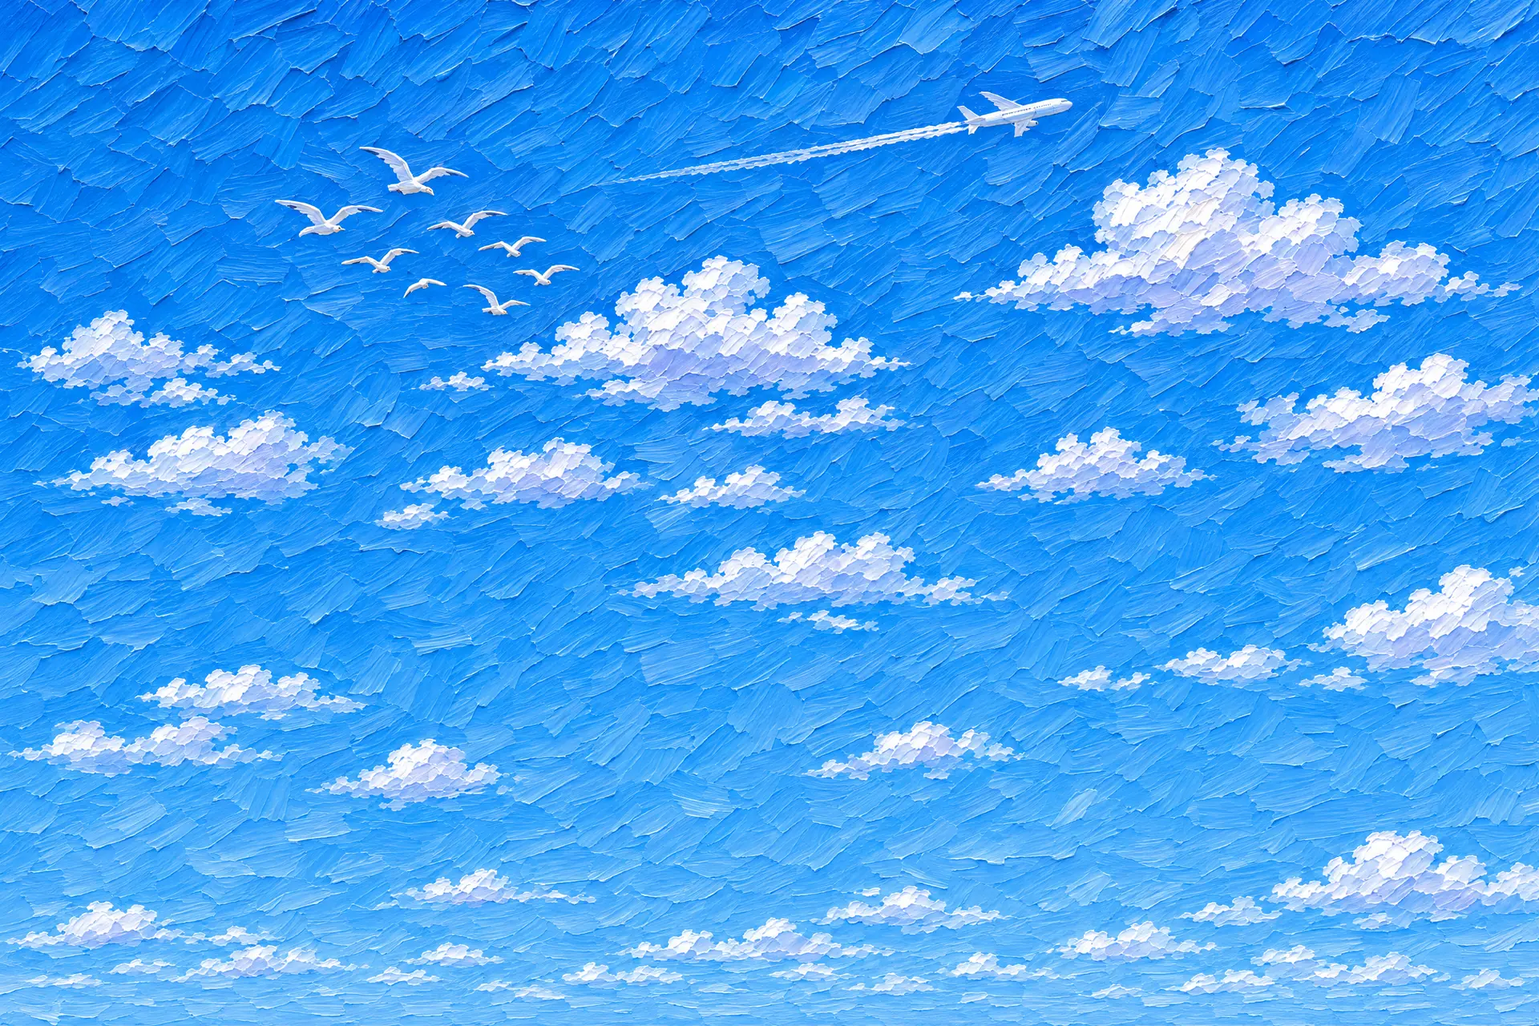
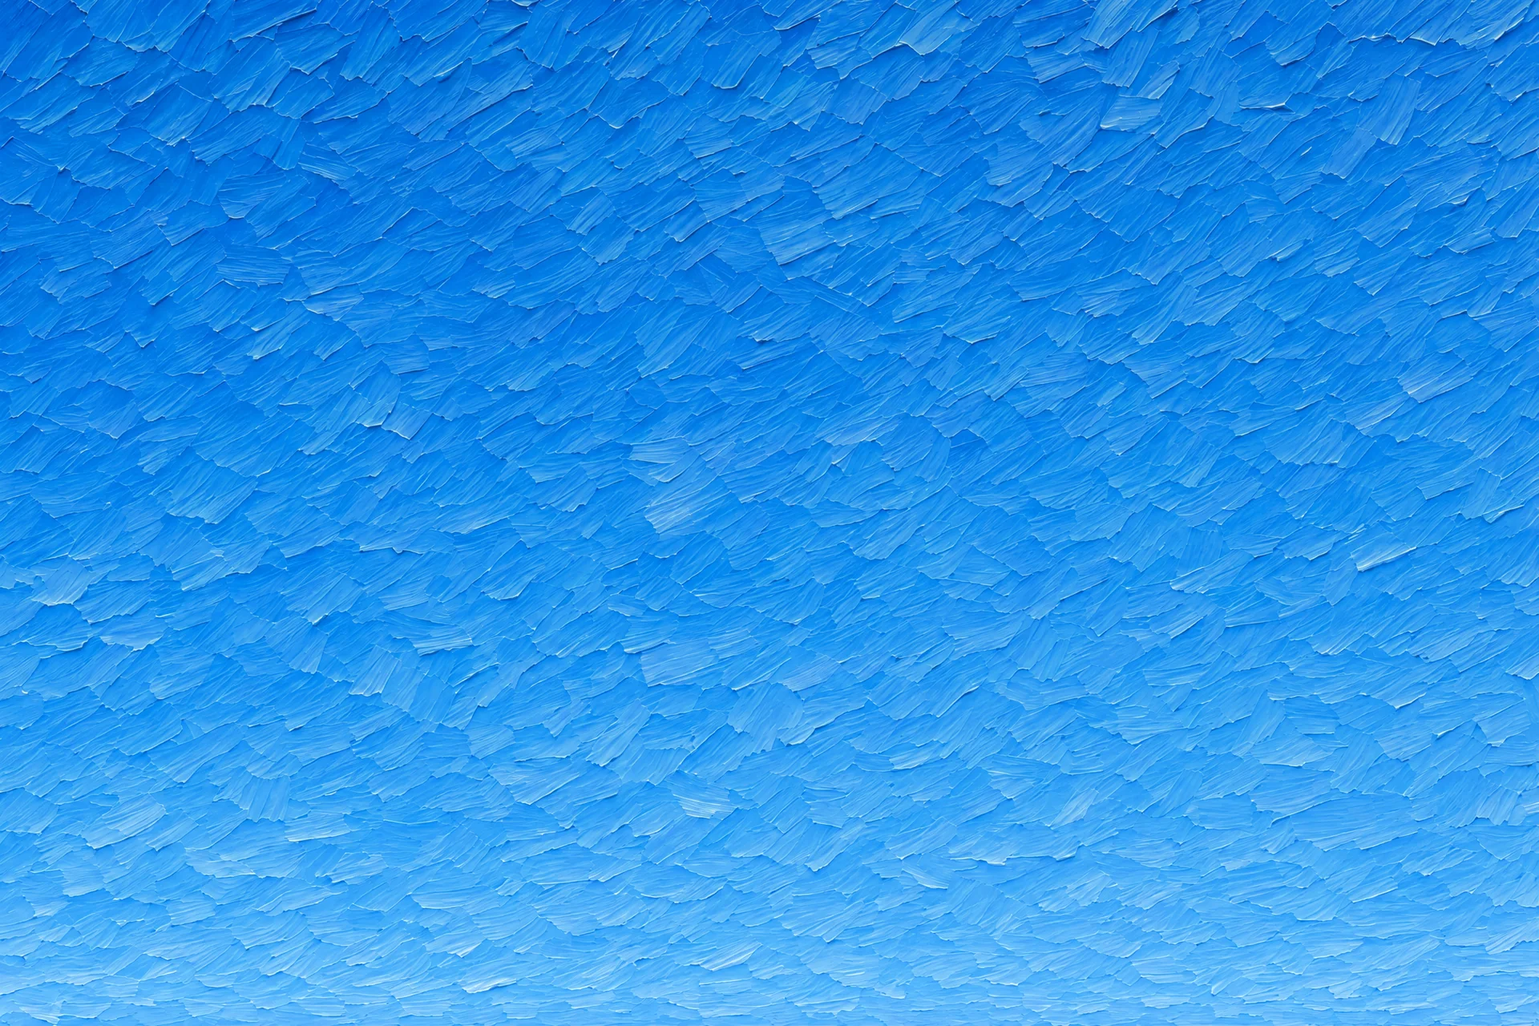
Home, opening: the plane is gone, and the name is painted large across the sky
The sky is repainted plain, its clouds and gulls are a layer of their own, and between them
the footer's signature, in the clouds' white paint, writes itself across the open sky when
the picture has grown. Phones: he stands a little smaller so the name is above his head, and
the crop shows the bus stop. Motion critic: the depth ends at 50%, the facts land on a still
picture, the nearest layers grow most, and all layers share one origin.

diff --git a/v7/hero.css b/v7/hero.css
@@ -100,7 +100,7 @@ html.me-scroll #about .me-facts .me-k{ font-weight: 600; color: #fff; }
     html.me-scroll #about .me-pin > *{ --rest: min(100cqh - var(--t0, 330px) - var(--sb), 130cqw); }
     html.me-scroll #about .me-photo.me-v7{ left: 0; width: 100%; top: calc(var(--t0, 330px) * (1 - var(--g, 0))); height: calc(var(--rest) + (100cqh - var(--rest)) * var(--g, 0)); }
     html.me-scroll #about .me-photo.me-v7 .me-v7-fg{ left: 54%; height: min(92%, 62cqw); }
-    html.me-scroll #about .me-photo.me-v7 .me-v7-bg{ object-position: 50% 58%; }
+    html.me-scroll #about .me-photo.me-v7 .me-v7-bg{ object-position: 46% 58%; }
   }
   /* no pin (reduced motion): the same two columns, still */
   html:not(.me-scroll) #about .me-top{ display: grid; grid-template-columns: 47% minmax(0, 1fr); gap: 4%; align-items: center; }
@@ -139,29 +139,28 @@ html.me-scroll #about .me-facts .me-k{ font-weight: 600; color: #fff; }
 }
 @media (max-width: 899px) and (prefers-reduced-motion: reduce) { nav.nav{ transition: none; } }
 
-/* The painter signs the canvas (owner, 22.11.2026 night: "I asked for my signature here too").
-   The drawing is the footer's own signature, cloned by v7/hero.js, in white paint at the bottom right of the picture.
-   Plain layout (phones, reduced motion): the true corner. Pinned stage: right-aligned on the jacket, just above where the four
-   facts will land; it is written as soon as the picture has grown and stays while it is grown (opacity follows --g from the
-   page's pin script). Owner, 22.11.2026: a dark name on the sky "cannot be seen at all, better as it was": white, on the jacket. Written once, in 1.4 s; never again. */
-#about .me-photo.me-v7 .hsig{ position: absolute; z-index: 2; right: clamp(14px, 4.4%, 24px); bottom: clamp(14px, 3.8%, 24px); width: clamp(112px, 31%, 140px); pointer-events: none; opacity: .94; rotate: -3deg; transform-origin: 0 100%; filter: sepia(.6) drop-shadow(0 0 .5px rgba(255,255,255,.85)) drop-shadow(0 1px 1.5px rgba(6,16,40,.7)); }
-/* plain layout: the corner of the picture can be pale floor or bright jacket, so the corner is shaded a little under the name */
-#about .me-photo.me-v7 .hsig::before{ content: ""; position: absolute; inset: -70% -34% -80% -40%; z-index: -1; background: radial-gradient(closest-side, rgba(8,22,56,.5), rgba(8,22,56,.26) 55%, rgba(8,22,56,0)); }
-html.me-scroll #about .me-photo.me-v7 .hsig::before{ content: none; }
-#about .hsig .hsig-svg{ display: block; width: 100%; height: auto; overflow: visible; }
-#about .hsig.js mask path{ stroke-dasharray: 1; stroke-dashoffset: 1; }
-#about .hsig.js.signed mask path{ animation: hsig-write calc(var(--t) * .476) cubic-bezier(.42,.1,.5,1) calc(var(--d) * .476) forwards; }
+/* The painter signs the sky (owner, 24.11.2026: "delete the plane, and instead the signature is painted huge behind me, across the
+   whole sky, with an effect"). The drawing is the footer's own signature (one source), cloned by v7/hero.js into .me-v7-sig: a layer
+   between the plain sky and its clouds, so the clouds, the city, the trees and he all stand in front of it. Its paint is the clouds' own
+   white with a ridge lit from the upper left (img/me-v7-sky-sig.webp). The layer is the same box as the sky picture and moves with it;
+   inside it the drawing is laid on the picture's own pixels (object-fit: cover done by hand: --opx/--opy follow the pictures'
+   object-position), so the name holds its place in the painting at every window shape.
+   Written once, in 2.3 s, as soon as the picture has grown to fill the stage (plain layout: when the sky is in view); never again. */
+#about .me-photo.me-v7{ --opx: .5; --opy: .58; }
+#about .me-photo.me-v7 .me-v7-sig{ position: absolute; left: 0; top: 0; width: 100%; height: 100%; container-type: size; pointer-events: none; will-change: transform; transform: translate(calc(var(--tx,0) * -2.2%), calc(var(--ty,0) * -2%)) scale(1.09); }
+#about .me-v7-sig svg{ position: absolute; display: block; width: max(100cqw, 150cqh); height: auto; aspect-ratio: 3 / 2; left: calc((100cqw - max(100cqw, 150cqh)) * var(--opx)); top: calc((100cqh - max(100cqw, 150cqh) / 1.5) * var(--opy)); overflow: visible; }
+#about .me-v7-sig.js mask path{ stroke-dasharray: 1; stroke-dashoffset: 1; }
+#about .me-v7-sig.js.signed mask path{ animation: hsig-write calc(var(--t) * .8) cubic-bezier(.42,.1,.5,1) calc(var(--d) * .8) forwards; }
 @keyframes hsig-write{ to{ stroke-dashoffset: 0; } }
-html.me-scroll #about .me-photo.me-v7 .hsig{ right: clamp(26px, 3.2vw, 52px); bottom: calc(clamp(22px, 4vh, 40px) + var(--ch, 90px) + 64px + clamp(30px, 4.6cqh, 44px)); width: clamp(128px, 14cqw, 176px); opacity: clamp(0, calc((var(--g, 0) - .8) * 4.7), .94); }
-@media (prefers-reduced-motion: reduce) { #about .hsig mask path{ stroke-dashoffset: 0 !important; animation: none !important; } }
+@media (prefers-reduced-motion: reduce) { #about .me-v7-sig mask path{ stroke-dashoffset: 0 !important; animation: none !important; } }
+@media (max-width: 860px) { #about .me-photo.me-v7{ --opx: .3; --opy: .5; } }
+@media (min-width: 861px) { html:not(.me-scroll) #about .me-photo.me-v7{ --opx: .64; } html.me-scroll #about .me-photo.me-v7{ --opx: .46; } }
+html.hp-wait #about .me-photo.me-v7 .me-v7-sig{ visibility: hidden; }
 /* The picture is painted in front of the visitor (v7/hero-paint.js). While the pencil is being prepared the frame is bare paper,
    so the finished picture is never seen first; then one canvas of pencil lies over the picture and thins out role by role. */
 html.hp-wait #about .me-photo.me-v7 .me-v7-in img{ visibility: hidden; }
 html.hp-wait #about .me-photo.me-v7{ background: #eeede9 !important; }
 #about .me-photo.me-v7 .me-v7-in .hp-cv{ position: absolute; inset: 0; z-index: 3; display: block; width: 100%; height: 100%; pointer-events: none; transition: opacity .26s ease; }
-/* while the frame is bare paper the signature and its soft shade wait too, then come in with the paint */
-html.hp-wait #about .me-photo.me-v7 .hsig{ opacity: 0 !important; }
-html:not(.me-scroll) #about .me-photo.me-v7 .hsig{ transition: opacity .6s ease; }
 
 /* Between 900 and 999 wide the two sides of the bar asked for 170px each and the five links for 525: more than the bar has, so the
    Contact pill ran past the right edge. The sides take what the name and the pill need. (found 23.11) */
@@ -194,7 +193,7 @@ html.me-scroll #about .me-photo.me-v7 .me-v7-bg{ transform: translate(calc(var(-
 html.me-scroll #about .me-photo.me-v7 .me-v7-air{ display: block; position: absolute; inset: 0; pointer-events: none; opacity: var(--dp, 0);
   background: radial-gradient(70% 85% at 66% 46%, rgba(10,22,44,0) 34%, rgba(10,22,44,.16) 70%, rgba(10,22,44,.34) 100%); }
 html.hp-wait #about .me-photo.me-v7 .me-v7-air{ visibility: hidden; }
-html.me-scroll #about .me-photo.me-v7 .me-v7-fg{ transform: translate(calc(var(--tx,0) * 14px), calc(var(--ty,0) * 8px)) scale(calc(1 + var(--dp, 0) * .045)); transform-origin: 50% 62%; }
+html.me-scroll #about .me-photo.me-v7 .me-v7-fg{ transform: translate(calc(var(--tx,0) * 14px), calc(var(--ty,0) * 8px)) scale(calc(1 + var(--dp, 0) * .06)); transform-origin: 50% 62%; }
 html.me-scroll #about .me-pin.me-grown .me-photo.me-v7::before{ opacity: calc(.82 + var(--dp, 0) * .08); }
 
 html.me-scroll #about#about .me-pillars li, html.me-scroll #about#about .me-pillars li + li{ position: relative; opacity: 1; transform: none; transition: none; border-left: 0; will-change: auto; }
@@ -206,11 +205,14 @@ html.me-scroll #about#about .me-pillars li.in .me-k{ opacity: 1; transition: opa
 html.me-scroll #about#about .me-pillars li.in .me-v{ opacity: 1; translate: 0 0; clip-path: inset(-20% -10% -20% -10%); transition: opacity .28s ease calc(var(--fd, 0ms) + 140ms), translate .56s cubic-bezier(.2,.8,.2,1) calc(var(--fd, 0ms) + 140ms), clip-path .56s cubic-bezier(.2,.8,.2,1) calc(var(--fd, 0ms) + 140ms); }
 html.me-scroll #about#about .me-pin.me-set .me-pillars li::before, html.me-scroll #about#about .me-pin.me-set .me-pillars li *{ transition: none !important; }
 
-/* The boulevard in three painted layers (owner, 24.11.2026: "the layers are the street with the people, the far city, the sky and
-   what is in it, and me"). The three images share .me-v7-bg (place, crop, the growth), so at rest they are one painting.
-   On the scroll each takes its own distance: the sky drifts a little to the left across the whole stage, as if the plane carried it;
-   the far city hardly moves; the street, with every person standing on it, comes closest, from the vanishing point, during the depth.
-   The mouse moves the far layers more than the near one. Without the scroll (phones, reduced motion) they simply lie on top of each other. */
-html.me-scroll #about .me-photo.me-v7 .me-v7-bg.me-v7-sky{ transform: translate(calc(var(--tx,0) * -2.6% - var(--z,0) * 3%), calc(var(--ty,0) * -2.4% + var(--z,0) * 1%)) scale(calc(1.09 + var(--g,0) * .03 + var(--dp,0) * .01)); }
-html.me-scroll #about .me-photo.me-v7 .me-v7-bg.me-v7-city{ transform: translate(calc(var(--tx,0) * -2.2%), calc(var(--ty,0) * -2%)) scale(calc(1.09 + var(--g,0) * .03 + var(--dp,0) * .025)); transform-origin: 52% 50%; }
-html.me-scroll #about .me-photo.me-v7 .me-v7-bg.me-v7-street{ transform: translate(calc(var(--tx,0) * -1%), calc(var(--ty,0) * -.8%)) scale(calc(1.09 + var(--g,0) * .03 + var(--dp,0) * .08)); transform-origin: 52% 52%; }
+/* The boulevard in painted layers (owner, 24.11.2026: "the layers are the street with the people, the far city, the sky and
+   what is in it, and me"). The images share .me-v7-bg (place, crop, the growth), so at rest they are one painting.
+   On the scroll each takes its own distance. The sky, its signature and its clouds and gulls move as one: a little to the left while the
+   picture grows and deepens, then still (min(--z, .5)), so nothing moves under the facts. The far city hardly moves; the street, with
+   every person standing on it, comes closer during the depth, and he comes closest of all (motion critic, 24.11: the nearest layer grows most).
+   All share one origin, so at rest they line up to the pixel. The mouse moves the far layers more than the near ones.
+   Without the scroll (phones, reduced motion) they simply lie on top of each other. */
+html.me-scroll #about .me-photo.me-v7 .me-v7-bg, html.me-scroll #about .me-photo.me-v7 .me-v7-sig{ transform-origin: 52% 52%; }
+html.me-scroll #about .me-photo.me-v7 .me-v7-bg.me-v7-sky, html.me-scroll #about .me-photo.me-v7 .me-v7-bg.me-v7-clouds, html.me-scroll #about .me-photo.me-v7 .me-v7-sig{ transform: translate(calc(var(--tx,0) * -2.6% - min(var(--z,0), .5) * 4%), calc(var(--ty,0) * -2.4% + min(var(--z,0), .5) * 1.4%)) scale(calc(1.09 + var(--g,0) * .03 + var(--dp,0) * .01)); }
+html.me-scroll #about .me-photo.me-v7 .me-v7-bg.me-v7-city{ transform: translate(calc(var(--tx,0) * -2.2%), calc(var(--ty,0) * -2%)) scale(calc(1.09 + var(--g,0) * .03 + var(--dp,0) * .022)); }
+html.me-scroll #about .me-photo.me-v7 .me-v7-bg.me-v7-street{ transform: translate(calc(var(--tx,0) * -.4%), calc(var(--ty,0) * -.3%)) scale(calc(1.09 + var(--g,0) * .03 + var(--dp,0) * .036)); }

diff --git a/index.html b/index.html
@@ -3857,8 +3857,8 @@ html section#design-lab:where(:not(.lx-app, .lx-app *)){ padding-top: clamp(56px
 #about .me-photo.me-v7 .me-v7-fg{ left: 62%; bottom: -2%; height: 92%; width: auto; transform: translate(calc(var(--tx,0) * 14px), calc(var(--ty,0) * 8px)); transform-origin: 50% 80%; }
 @media (max-width: 860px) {
   #about .me-photo.me-v7{ height: auto; aspect-ratio: 4 / 5; border-radius: 22px; }
-  #about .me-photo.me-v7 .me-v7-bg{ object-position: 74% 50%; }
-  #about .me-photo.me-v7 .me-v7-fg{ left: 50%; margin-left: -31%; height: 84%; }
+  #about .me-photo.me-v7 .me-v7-bg{ object-position: 30% 50%; }
+  #about .me-photo.me-v7 .me-v7-fg{ left: 50%; margin-left: -27%; height: 74%; } /* a little smaller, so the name in the sky is written above his head */
 }
 
 /* about, on scroll (wide windows with motion allowed; the class is set by the script): the opening pins to the screen. The framed
@@ -3914,7 +3914,7 @@ html.me-scroll #about .me-pin.me-set .me-photo.me-v7::before{ transition: none; 
 .v7-glass > *{ border-radius: clamp(12px, 1.3vw, 18px); overflow: hidden; }
 </style>
 <link rel="stylesheet" href="v7/font.css?v=221">
-<link rel="stylesheet" href="v7/hero.css?v=227">
+<link rel="stylesheet" href="v7/hero.css?v=228">
 <script>/* the hero picture is painted in once per tab: v7/hero-paint.js */try{if(!sessionStorage.getItem('hp')&&!matchMedia('(prefers-reduced-motion: reduce)').matches)document.documentElement.classList.add('hp-wait')}catch(e){}</script>
 <script>/* the pinned opening (html.me-scroll) is decided here, before the first paint; the pin script at the foot of the page then takes over. Decided only there, the page was first painted in the plain layout, and the four facts were seen on the picture for a moment and gone */try{(function(m,c){function s(){c.toggle('me-scroll',m.matches)}s();if(m.addEventListener)m.addEventListener('change',s)})(matchMedia('(min-width: 861px) and (prefers-reduced-motion: no-preference)'),document.documentElement.classList)}catch(e){}</script>
 <link rel="stylesheet" href="v7/code.css?v=223">
@@ -3995,7 +3995,7 @@ html.me-scroll #about .me-pin.me-set .me-photo.me-v7::before{ transition: none; 
         <h1 class="hv-h" id="about-h"><span class="hv-sr">Ofir Nona. </span>I design<br class="hv-b3"> <em>experiences</em><br class="hv-b2"> for AI<br class="hv-b3"> products.</h1>
         <p class="me-lead">The only designer at Hear, where AI reads every call in a contact center. From first research to front-end code.</p>
       </div>
-      <figure class="me-photo me-v7"><span class="me-v7-in"><img class="me-v7-bg me-v7-sky" src="img/me-v7-blvd-sky-1920.webp?v=1" srcset="img/me-v7-blvd-sky-960.webp?v=1 960w, img/me-v7-blvd-sky-1920.webp?v=1 1920w" sizes="(min-width: 861px) min(100vw, 1280px), 140vw" width="1920" height="1280" alt="" fetchpriority="high" decoding="async"><img class="me-v7-bg me-v7-city" src="img/me-v7-blvd-city-1920.webp?v=1" srcset="img/me-v7-blvd-city-960.webp?v=1 960w, img/me-v7-blvd-city-1920.webp?v=1 1920w" sizes="(min-width: 861px) min(100vw, 1280px), 140vw" width="1920" height="1280" alt="" fetchpriority="high" decoding="async"><img class="me-v7-bg me-v7-street" src="img/me-v7-blvd-street-1920.webp?v=1" srcset="img/me-v7-blvd-street-960.webp?v=1 960w, img/me-v7-blvd-street-1920.webp?v=1 1920w" sizes="(min-width: 861px) min(100vw, 1280px), 140vw" width="1920" height="1280" alt="" fetchpriority="high" decoding="async"><img class="me-v7-fg" src="img/me-v7-fig-b3.webp" width="1168" height="1598" alt="Painted portrait of Ofir Nona on a Tel Aviv boulevard: behind him people walk, cycle and sit, a young man taps a bus stop's app screen, and a plane and gulls cross the sky over the city" fetchpriority="high" decoding="async"></span><span class="hsig" aria-hidden="true"></span></figure>
+      <figure class="me-photo me-v7"><span class="me-v7-in"><img class="me-v7-bg me-v7-sky" src="img/me-v7-blvd-sky-1920.webp?v=2" srcset="img/me-v7-blvd-sky-960.webp?v=2 960w, img/me-v7-blvd-sky-1920.webp?v=2 1920w" sizes="(min-width: 861px) min(100vw, 1280px), 140vw" width="1920" height="1280" alt="" fetchpriority="high" decoding="async"><span class="me-v7-sig" aria-hidden="true"></span><img class="me-v7-bg me-v7-clouds" src="img/me-v7-blvd-clouds-1920.webp?v=1" srcset="img/me-v7-blvd-clouds-960.webp?v=1 960w, img/me-v7-blvd-clouds-1920.webp?v=1 1920w" sizes="(min-width: 861px) min(100vw, 1280px), 140vw" width="1920" height="1280" alt="" fetchpriority="high" decoding="async"><img class="me-v7-bg me-v7-city" src="img/me-v7-blvd-city-1920.webp?v=1" srcset="img/me-v7-blvd-city-960.webp?v=1 960w, img/me-v7-blvd-city-1920.webp?v=1 1920w" sizes="(min-width: 861px) min(100vw, 1280px), 140vw" width="1920" height="1280" alt="" fetchpriority="high" decoding="async"><img class="me-v7-bg me-v7-street" src="img/me-v7-blvd-street-1920.webp?v=1" srcset="img/me-v7-blvd-street-960.webp?v=1 960w, img/me-v7-blvd-street-1920.webp?v=1 1920w" sizes="(min-width: 861px) min(100vw, 1280px), 140vw" width="1920" height="1280" alt="" fetchpriority="high" decoding="async"><img class="me-v7-fg" src="img/me-v7-fig-b3.webp" width="1168" height="1598" alt="Painted portrait of Ofir Nona on a Tel Aviv boulevard: behind him people walk, cycle and sit, a young man taps a bus stop's app screen, and his signature is painted large across the sky over the city" fetchpriority="high" decoding="async"></span></figure>
     </div>
     <ol class="me-pillars me-facts">
       <li><span class="me-k">Years in product design</span><strong class="me-v"><span data-n="6">6</span>+</strong></li>
@@ -7004,14 +7004,14 @@ document.addEventListener('DOMContentLoaded', () => {
 /* about, on scroll: drives the pinned opening. One number, how far through the stage the page is, is eased (the same pace at any
    frame rate) and turned into: the painting's growth (--g), the depth (--dp) and each fact's place.
    Owner, 24.11: depth, and four facts that mean something on the scroll. The growth takes the same distance as before. Then, before
-   any fact, the depth: the room dims a little around him and he comes a little closer, finished by 48% of the stage so the facts land
-   on a still picture. Then each fact lands at its own point (50, 60, 70, 80%): its rule draws up, its label comes, its figure rises
+   any fact, the depth: the room dims a little around him and he comes a little closer, finished by 50% of the stage so the facts land
+   on a still picture. Then each fact lands at its own point (55, 63.5, 72, 80.5%): its rule draws up, its label comes, its figure rises
    (hero.css). The figures are stated, not counted. On a fast scroll the facts still come one after another, at least 110ms apart. */
 (function(){ var about=document.getElementById('about'); if(!about) return; var stage=about.querySelector('.me-stage'), pin=about.querySelector('.me-pin'), intro=about.querySelector('.me-intro'), list=about.querySelector('.me-pillars'), cards=[].slice.call(about.querySelectorAll('.me-pillars li'));
   if(!stage||!pin||!intro||cards.length<2) return;
   var ok=matchMedia('(min-width: 861px) and (prefers-reduced-motion: no-preference)'), root=document.documentElement, on=false, cur=0, raf=0, last=0;
   /* GROW: the share of the stage the growth takes; DEPTH: where the depth is complete; BEAT: where each fact lands */
-  var GROW=.41, DEPTH=.48, BEAT=[.5,.6,.7,.8];
+  var GROW=.41, DEPTH=.50, BEAT=[.55,.635,.72,.805];
   function clamp(v){ return v<0?0:v>1?1:v } function io(t){ return t<.5?4*t*t*t:1-Math.pow(-2*t+2,3)/2 } function io2(t){ return t<.5?2*t*t:1-Math.pow(-2*t+2,2)/2 }
   cards.forEach(function(c,i){ c.style.setProperty('--fi',i) });
   /* the room's shadow: one layer between the room and him, so only the room dims */
@@ -7050,7 +7050,7 @@ document.addEventListener('DOMContentLoaded', () => {
   window.v7Tilt=bind; [].forEach.call(document.querySelectorAll('[data-v7-tilt]'),bind);
 })();
 </script>
-<script src="v7/hero.js?v=223" defer></script>
+<script src="v7/hero.js?v=225" defer></script>
 <script src="v7/hero-paint.js?v=222" defer></script>
 <script src="v7/code.js?v=222" defer></script>
 <script src="v7/depth.js?v=221" defer></script>

diff --git a/v7/hero.js b/v7/hero.js
@@ -72,24 +72,31 @@
   nav.addEventListener('focusin', function () { root.classList.remove('hv-down'); });
 })();
 
-/* The painter signs the canvas. The drawing is the footer's signature (one source: footer .ft-sig), cloned into .hsig on the
-   hero picture. It is written once: in the pinned stage as soon as the picture has grown to fill the stage (the page's pin script
-   sets .me-grown on .me-pin; owner, 22.11.2026: the signature is seen in the top section when the picture with the background grows, not only at the end); in the plain layout 400 ms after the picture's lower corner is in view and the opening has come in.
-   It never replays. Reduced motion: shown complete. Styles in v7/hero.css. */
+/* The painter signs the sky. The drawing is the footer's signature (one source: footer .ft-sig): its strokes are cloned into .me-v7-sig,
+   a layer between the plain sky and its clouds (styles in v7/hero.css), and they uncover the signature painted in the clouds' white paint.
+   It is laid on the painting's own pixels (viewBox = the 1920x1280 picture): over the open sky between the trees, left of his head.
+   It is written once: in the pinned stage as soon as the picture has grown to fill the stage (the page's pin script sets .me-grown on
+   .me-pin); in the plain layout 400 ms after the sky is in view. Never during the paint-in, and it never replays. Reduced motion: complete. */
 (function () {
-  var fig = document.querySelector('#about .me-photo.me-v7'), box = fig && fig.querySelector('.hsig'), src = document.querySelector('footer.ft .ft-sig');
+  var fig = document.querySelector('#about .me-photo.me-v7'), box = fig && fig.querySelector('.me-v7-sig'), src = document.querySelector('footer.ft .ft-sig');
   if (!box || !src) return;
-  var svg = src.cloneNode(true), mask = svg.querySelector('mask'), img = svg.querySelector('image');
+  var NS = 'http://www.w3.org/2000/svg', svg = document.createElementNS(NS, 'svg'), g = document.createElementNS(NS, 'g');
+  svg.setAttribute('viewBox', '0 0 1920 1280'); svg.setAttribute('focusable', 'false');
+  g.setAttribute('transform', 'translate(566 204) scale(' + (636 / 1203).toFixed(5) + ')');
+  [].forEach.call(src.childNodes, function (n) { g.appendChild(n.cloneNode(true)); });
+  var mask = g.querySelector('mask'), img = g.querySelector('image');
   if (!mask || !img) return;
-  svg.setAttribute('class', 'hsig-svg'); svg.removeAttribute('style'); mask.id = 'hsig-m'; img.setAttribute('mask', 'url(#hsig-m)');
-  box.appendChild(svg);
+  mask.id = 'hsig-m'; img.setAttribute('mask', 'url(#hsig-m)');
+  img.removeAttributeNS('http://www.w3.org/1999/xlink', 'href'); img.setAttribute('href', 'img/me-v7-sky-sig.webp?v=1');
+  var pen = mask.querySelector('g'); if (pen) pen.setAttribute('stroke-width', '36');
+  svg.appendChild(g); box.appendChild(svg);
   if (matchMedia('(prefers-reduced-motion: reduce)').matches) return;
   box.classList.add('js');
   var root = document.documentElement, pin = fig.closest('.me-pin'), signed = false, timer = 0, tick = false;
   function ready() {
     if (root.classList.contains('hp-wait') || root.classList.contains('hp-on')) return false; // a picture is signed when it is finished, not while it is being painted
     if (root.classList.contains('me-scroll')) return !!pin && pin.classList.contains('me-grown');
-    var r = fig.getBoundingClientRect(); return r.bottom < innerHeight - 8 && r.bottom > 140;
+    var r = fig.getBoundingClientRect(); return r.top < innerHeight * .6 && r.bottom > 200;
   }
   function stop() { removeEventListener('scroll', ask); removeEventListener('resize', ask); if (mo) mo.disconnect(); if (mr) mr.disconnect(); }
   function check() {

diff --git a/.claude/inbox/site.md b/.claude/inbox/site.md
@@ -76,3 +76,4 @@
 - 24.11 Design Lab: the moving back cloud settles at the window's top-left (owner); on the right it sat on the cloud painted in the sky. topics.js?v=18
 - 24.11 Home, opening: depth on scroll (room dims at its edges, he comes forward), then the four facts land one by one at 50/60/70/80% of the stage; figures stated, no count-up; blur tried and cut.
 - 24.11 opening: the studio replaced by a Tel Aviv boulevard painted in three layers (sky, far city, street with its people) behind the portrait; each layer moves its own distance on the scroll. img/me-v7-blvd-*.webp, v7/hero.css, v7/hero-paint.js.
+- 24.11: Home opening: the plane is gone; the sky is repainted plain, with its clouds and gulls as their own layer, and 'Ofir Nona' is painted large across the open sky between the trees and written stroke by stroke when the picture has grown (phones: above his head, figure 74%%). Motion critic fixes: depth to 50%%, facts at 55/63.5/72/80.5%%, near layers grow most, one origin, sky still under the facts; phone crop 30%% shows the bus stop.
